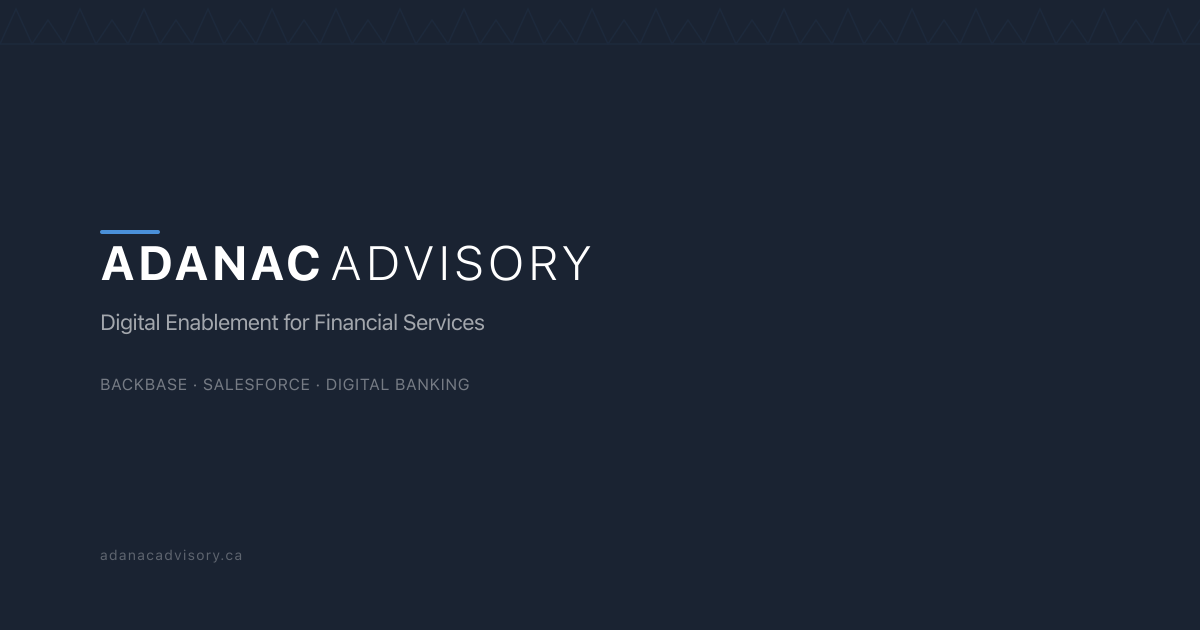
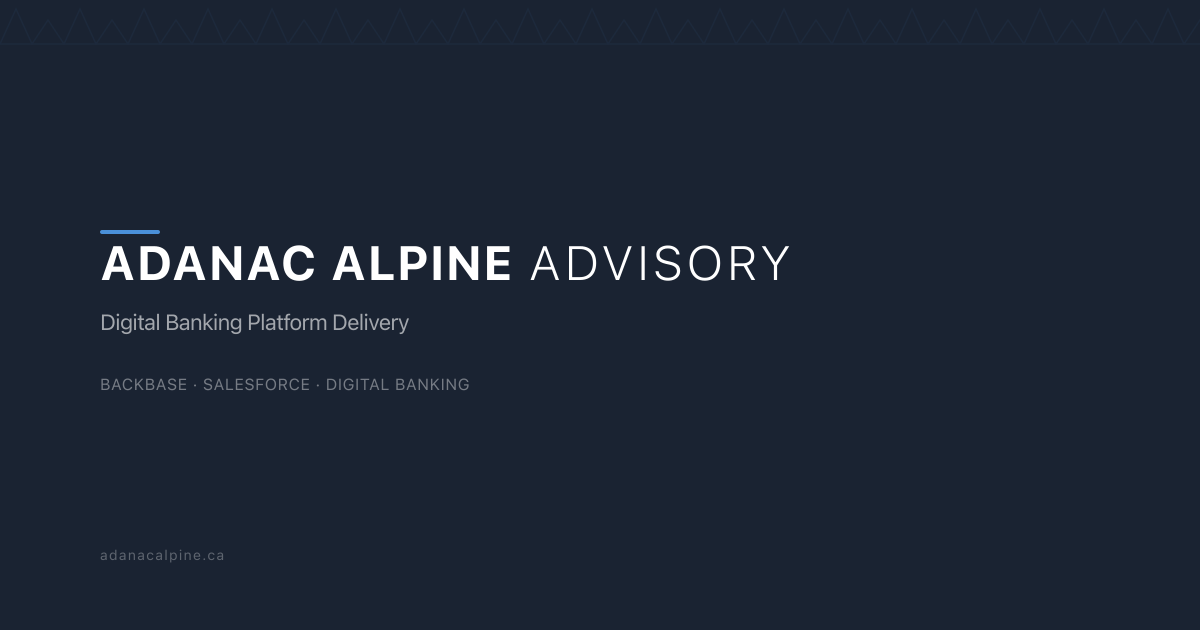
copy: use 15+ years and first-person "I" voice (#27)
* copy: use 15+ years and first-person "I" voice

- About and /ai-savings bio: 16 years -> 15+ years (career start 2010)
- /ai-savings: "We look at your week" -> "I look at your week"
- content-brief: voice rule is "I" everywhere; update years

* copy: retitle site to "Digital Banking Platform Delivery"

Replaces "Digital Enablement for Financial Services" in the page title,
Open Graph and Twitter metadata, and the OG image alt text.

* fix(og): regenerate share image with Adanac Alpine name and new title

The PNG still showed "ADANAC ADVISORY", adanacadvisory.ca and the old
tagline. Re-rendered from the SVG source, which now uses a single text
run for the wordmark and "Digital Banking Platform Delivery".

* test: expect 15+ years in About

---------

Changed region(s): [[0.1233, 0.3921, 0.6783, 0.4524], [0.1542, 0.4825, 0.4008, 0.5429], [0.1542, 0.8746, 0.185, 0.9048]]

diff --git a/app/layout.tsx b/app/layout.tsx
@@ -9,13 +9,13 @@ const inter = Inter({
 })
 
 export const metadata: Metadata = {
-  title: 'Adanac Alpine Advisory — Digital Enablement for Financial Services',
+  title: 'Adanac Alpine Advisory — Digital Banking Platform Delivery',
   description: 'IT consulting and digital transformation for financial services. Backbase and Salesforce implementation experts for banks and credit unions.',
   icons: {
     icon: '/favicon.svg',
   },
   openGraph: {
-    title: 'Adanac Alpine Advisory — Digital Enablement for Financial Services',
+    title: 'Adanac Alpine Advisory — Digital Banking Platform Delivery',
     description: 'IT consulting and digital transformation for financial services. Backbase and Salesforce implementation experts for banks and credit unions.',
     url: 'https://adanacalpine.ca',
     siteName: 'Adanac Alpine Advisory',
@@ -26,13 +26,13 @@ export const metadata: Metadata = {
         url: 'https://adanacalpine.ca/og-image.png',
         width: 1200,
         height: 630,
-        alt: 'Adanac Alpine Advisory — Digital Enablement for Financial Services',
+        alt: 'Adanac Alpine Advisory — Digital Banking Platform Delivery',
       },
     ],
   },
   twitter: {
     card: 'summary_large_image',
-    title: 'Adanac Alpine Advisory — Digital Enablement for Financial Services',
+    title: 'Adanac Alpine Advisory — Digital Banking Platform Delivery',
     description: 'IT consulting and digital transformation for financial services. Backbase and Salesforce implementation experts for banks and credit unions.',
     images: ['https://adanacalpine.ca/og-image.png'],
   },

diff --git a/components/AiSavingsSections.tsx b/components/AiSavingsSections.tsx
@@ -292,7 +292,7 @@ const STEPS = [
   {
     icon: Phone,
     title: 'Free 30-minute call',
-    body: "We look at your week, your tools and where the time goes. You get an honest view of what AI can and can't do for you.",
+    body: "I look at your week, your tools and where the time goes. You get an honest view of what AI can and can't do for you.",
   },
   {
     icon: Settings,
@@ -352,7 +352,7 @@ export function AboutBlock() {
             <div className="space-y-2">
               <Eyebrow>Who you&apos;ll work with</Eyebrow>
               <p className="max-w-3xl text-lg font-medium leading-relaxed text-navy">
-                I&apos;m Sergey Pochikovskiy, a Squamish-based consultant with 16 years in banking systems, where data
+                I&apos;m Sergey Pochikovskiy, a Squamish-based consultant with 15+ years in banking systems, where data
                 security comes first. I do every setup myself, on your accounts, and train you on your real work.
               </p>
               <Link href="/#about" className={`inline-block rounded text-sm ${textLink} ${focusRing}`}>

diff --git a/components/About.tsx b/components/About.tsx
@@ -95,7 +95,7 @@ export default function About() {
             <StaggerChildren stagger={0.12} className="text-dark-gray text-base sm:text-lg leading-relaxed space-y-6">
               <StaggerItem>
                 <p className="font-medium text-navy/95 text-lg sm:text-xl">
-                  {"I'm"} Sergey Pochikovskiy — 16 years in financial services, from credit unions to enterprise commercial banking. I help financial institutions migrate to modern digital banking platforms, owning the governance and delivery from Discovery through production.
+                  {"I'm"} Sergey Pochikovskiy — 15+ years in financial services, from credit unions to enterprise commercial banking. I help financial institutions migrate to modern digital banking platforms, owning the governance and delivery from Discovery through production.
                 </p>
               </StaggerItem>
               <StaggerItem>

diff --git a/tests/components/About.test.tsx b/tests/components/About.test.tsx
@@ -13,9 +13,9 @@ describe('About', () => {
     expect(screen.getByText('About Me', { selector: '.uppercase' })).toBeInTheDocument()
   })
 
-  it('mentions 16 years of experience', () => {
+  it('mentions 15+ years of experience', () => {
     render(<About />)
-    expect(screen.getByText(/16 years/i)).toBeInTheDocument()
+    expect(screen.getByText(/15\+ years/i)).toBeInTheDocument()
   })
 
   it('introduces Sergey by name', () => {

diff --git a/content-brief.md b/content-brief.md
@@ -33,7 +33,7 @@ timestamp: "2026-07-11T00:00:00Z"
 
 ### Short bio (hero/subtitle)
 
-16 years in financial services — from banking product management in Belarus to Backbase and VeriPark delivery in Canada. I help credit unions, banks, and FinTechs go from digital strategy to production.
+15+ years in financial services — from banking product management in Belarus to Backbase and VeriPark delivery in Canada. I help credit unions, banks, and FinTechs go from digital strategy to production.
 
 ### Full bio (About section)
 
@@ -144,7 +144,7 @@ Have a digital project in mind? We'd love to hear about it. Let's connect on how
 - Professional but approachable
 - Confident, not arrogant
 - Technical but accessible
-- First person plural ("we") for company sections, first person singular ("I") for About section
+- First person singular ("I") everywhere. "We" only in the inclusive you-and-me sense ("together we define…") and in legal pages
 - No jargon without explanation
 - Action-oriented (verbs, not nouns)
 
